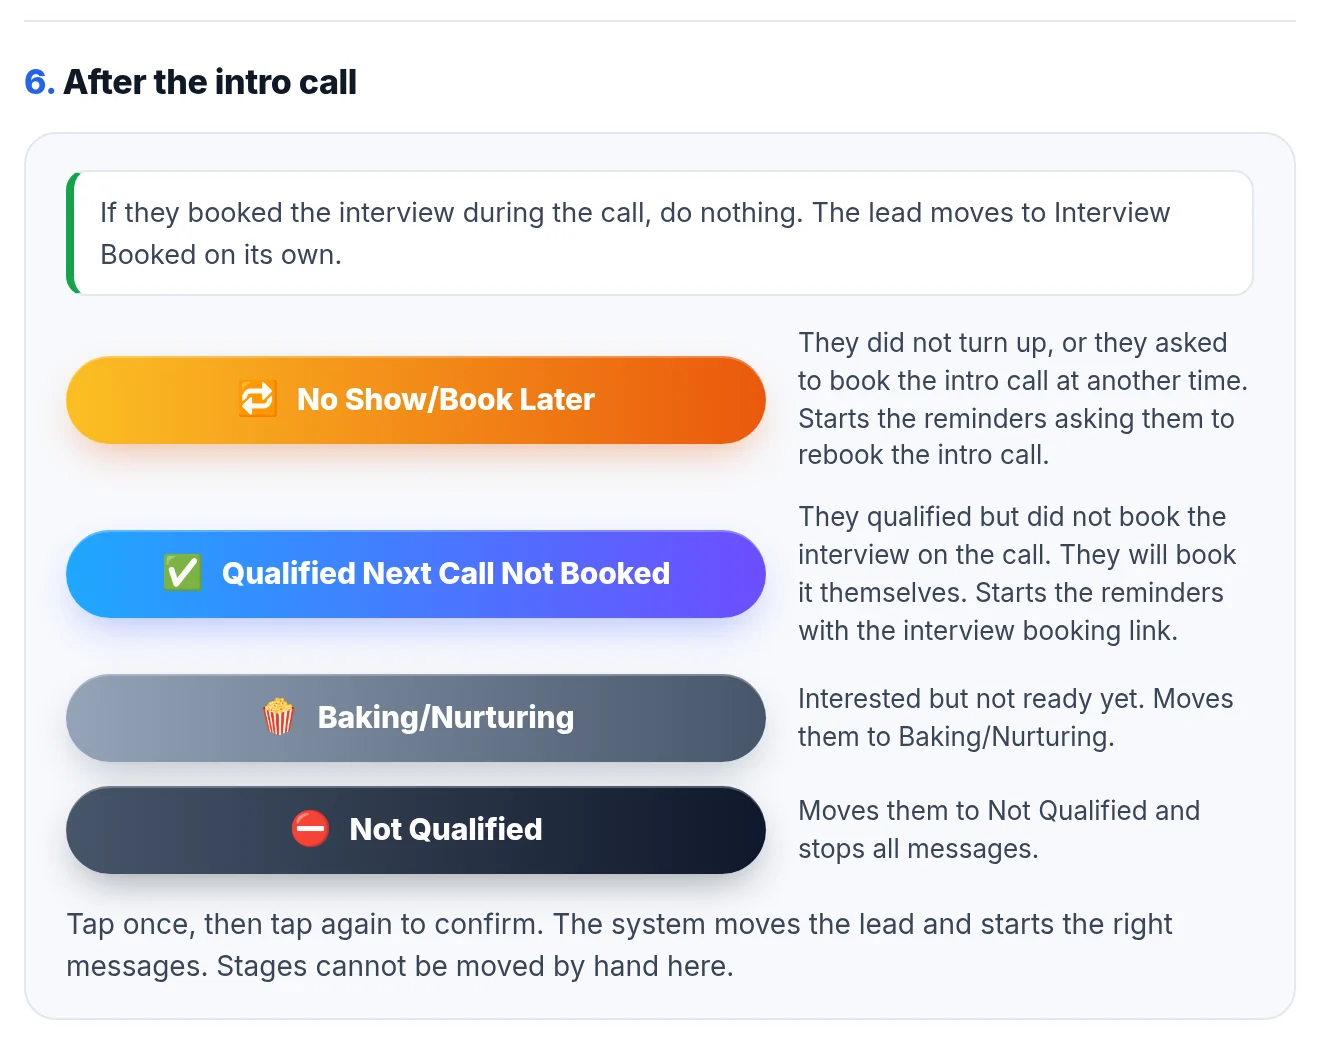
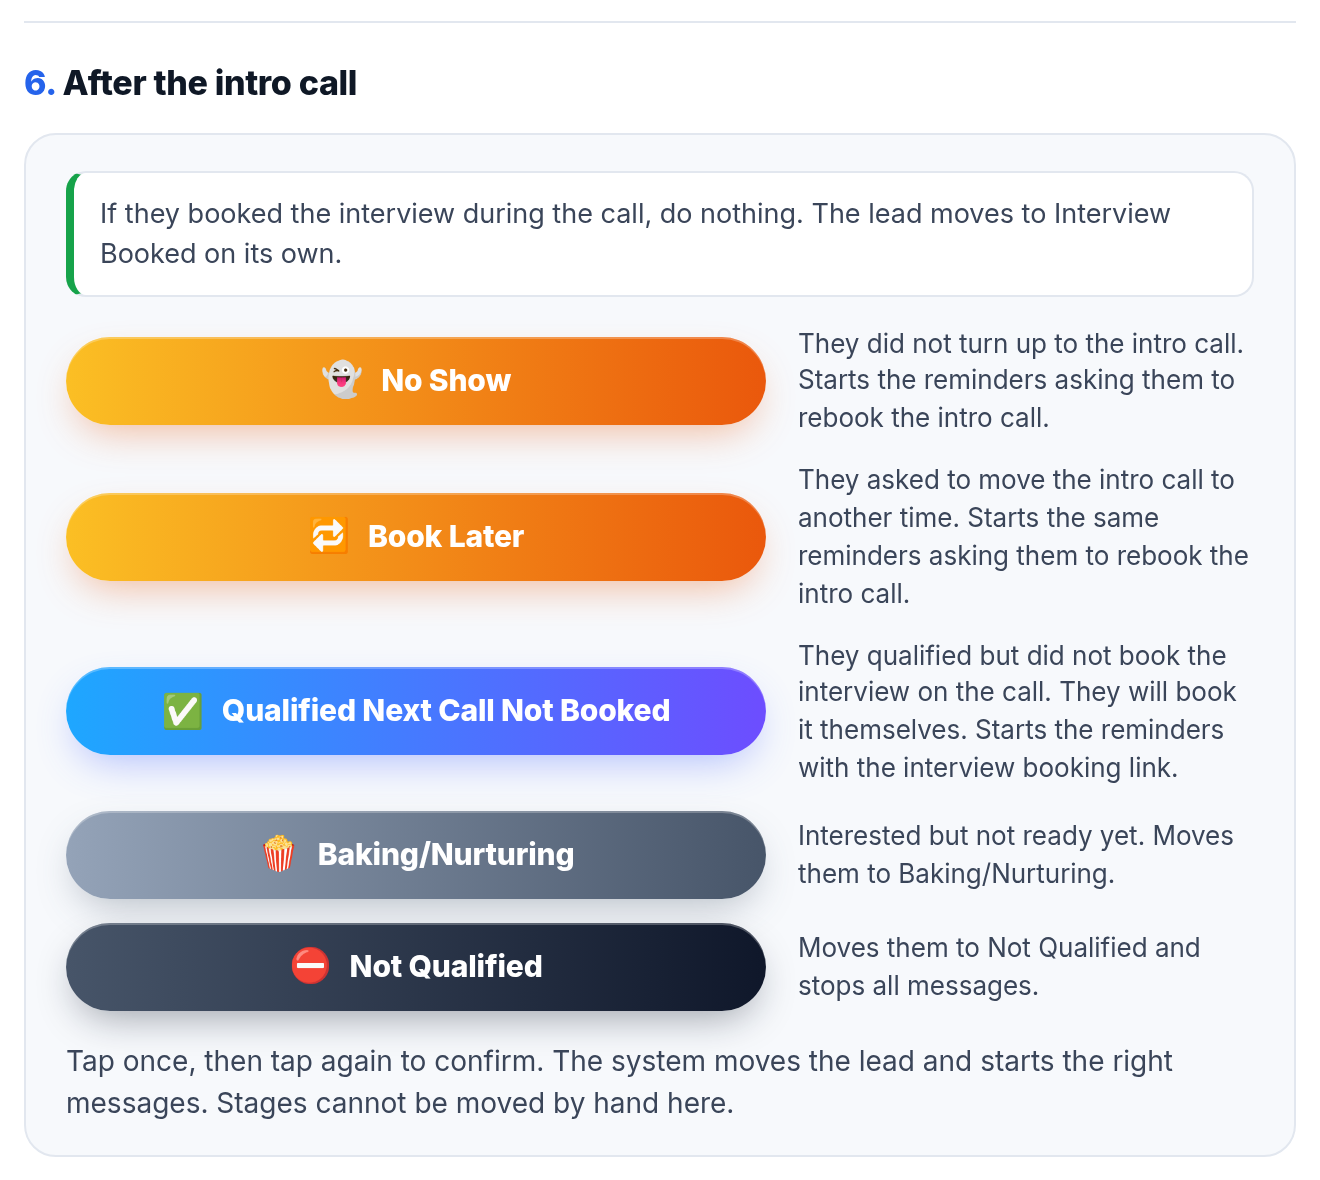
Split No Show and Book Later into two buttons

diff --git a/public/app.js b/public/app.js
@@ -192,17 +192,17 @@ function stageDetail(s){
   }
   if(st==="noshow") return {
     what:"People who missed or cancelled their intro call. The CRM is sending them reminders to book a new one.",
-    how:"They land here when a salesperson taps No Show/Book Later on the intro card, or on their own when they cancel the intro.",
+    how:"They land here when a salesperson taps No Show or Book Later on the intro card, or on their own when they cancel the intro.",
     you:"Reach out to them personally if you have not yet, so they end up booking the intro call.",
   };
   if(st==="bookinginterview") return {
     what:"People who need to book their interview. The CRM is sending them reminders to book it.",
-    how:"They land here when a salesperson taps Qualified Next Call Not Booked on the intro card or No Show/Book Later on the interview card, or on their own when they cancel the interview.",
+    how:"They land here when a salesperson taps Qualified Next Call Not Booked on the intro card or No Show or Book Later on the interview card, or on their own when they cancel the interview.",
     you:"Reach out to them personally if you have not yet, so they end up booking the interview.",
   };
   if(st==="bookingreview") return {
     what:"People who need to book their review call. The CRM is sending them reminders to book it.",
-    how:"They land here when a salesperson taps Qualified Next Call Not Booked on the interview card or No Show/Book Later on the review card, or on their own when they cancel the review.",
+    how:"They land here when a salesperson taps Qualified Next Call Not Booked on the interview card or No Show or Book Later on the review card, or on their own when they cancel the review.",
     you:"Reach out to them personally if you have not yet, so they end up booking the review call.",
   };
   if(st==="baking") return {
@@ -450,11 +450,14 @@ function actionPlan(l, ctx){
   const isInterview=/interview/i.test(st), isReview=/review/i.test(st);
   // Button text matches the stage names in the pipeline.
   const B={
-    noshowIntro:{label:"No Show/Book Later", tag:"noshow-intro", tone:"chase", icon:"🔁", what:"They did not turn up, or they asked to book the intro call at another time. Starts the reminders asking them to rebook the intro call."},
+    noshowIntro:{label:"No Show", tag:"noshow-intro", tone:"chase", icon:"👻", what:"They did not turn up to the intro call. Starts the reminders asking them to rebook the intro call."},
+    booklaterIntro:{label:"Book Later", tag:"booklater-intro", tone:"chase", icon:"🔁", what:"They asked to move the intro call to another time. Starts the same reminders asking them to rebook the intro call."},
     noBookInterview:{label:"Qualified Next Call Not Booked", tag:"pending-interview", tone:"blue", icon:"✅", what:"They qualified but did not book the interview on the call. They will book it themselves. Starts the reminders with the interview booking link."},
-    noshowInterview:{label:"No Show/Book Later", tag:"noshow-interview", tone:"chase", icon:"🔁", what:"They did not turn up, or they asked to book the interview at another time. Starts the reminders asking them to rebook the interview."},
+    noshowInterview:{label:"No Show", tag:"noshow-interview", tone:"chase", icon:"👻", what:"They did not turn up to the interview. Starts the reminders asking them to rebook the interview."},
+    booklaterInterview:{label:"Book Later", tag:"booklater-interview", tone:"chase", icon:"🔁", what:"They asked to move the interview to another time. Starts the same reminders asking them to rebook the interview."},
     noBookReview:{label:"Qualified Next Call Not Booked", tag:"pending-review", tone:"blue", icon:"✅", what:"The interview went well but they did not book the review on the call. They will book it themselves. Starts the reminders with the review booking link."},
-    noshowReview:{label:"No Show/Book Later", tag:"noshow-review", tone:"chase", icon:"🔁", what:"They did not turn up, or they asked to book the review at another time. Starts the reminders asking them to rebook the review."},
+    noshowReview:{label:"No Show", tag:"noshow-review", tone:"chase", icon:"👻", what:"They did not turn up to the review call. Starts the reminders asking them to rebook the review."},
+    booklaterReview:{label:"Book Later", tag:"booklater-review", tone:"chase", icon:"🔁", what:"They asked to move the review call to another time. Starts the same reminders asking them to rebook the review."},
     baking:{label:"Baking/Nurturing", tag:"baking", tone:"gray", icon:"🍿", what:"Interested but not ready yet. Moves them to Baking/Nurturing."},
     nq:{label:"Not Qualified", tag:"not-qualified", tone:"dark", icon:"⛔", what:"Moves them to Not Qualified and stops all messages."},
     cancel:{label:"Cancel the call", tag:"not-qualified", tone:"dark", icon:"🚫", what:"The call is off. Moves them to Not Qualified and stops all messages."},
@@ -468,9 +471,9 @@ function actionPlan(l, ctx){
     if(s!=="clientwon") list.push(B.won);
     return {title:"Move this lead", auto:"Only for closing out a lead. The day to day call buttons are on the cards in Daily Outreach.", after:list};
   }
-  if(s==="booked" && isReview) return {title:"After the review call", auto:"Tap the one that matches what happened.", after:[B.noshowReview,B.baking,B.nq]};
-  if(s==="booked" && isInterview) return {title:"After the interview call", auto:"If they booked the review during the interview, do nothing. The lead moves to Review Booked on its own.", after:[B.noshowInterview,B.noBookReview,B.baking,B.nq]};
-  if(s==="booked") return {title:"After the intro call", auto:"If they booked the interview during the call, do nothing. The lead moves to Interview Booked on its own.", after:[B.noshowIntro,B.noBookInterview,B.baking,B.nq]};
+  if(s==="booked" && isReview) return {title:"After the review call", auto:"Tap the one that matches what happened.", after:[B.noshowReview,B.booklaterReview,B.baking,B.nq]};
+  if(s==="booked" && isInterview) return {title:"After the interview call", auto:"If they booked the review during the interview, do nothing. The lead moves to Review Booked on its own.", after:[B.noshowInterview,B.booklaterInterview,B.noBookReview,B.baking,B.nq]};
+  if(s==="booked") return {title:"After the intro call", auto:"If they booked the interview during the call, do nothing. The lead moves to Interview Booked on its own.", after:[B.noshowIntro,B.booklaterIntro,B.noBookInterview,B.baking,B.nq]};
   return null; // other stages: the closing buttons live on the Pipeline tab
 }
 

diff --git a/public/resources.html b/public/resources.html
@@ -176,7 +176,7 @@
         </div>
         <h3>The intro call</h3>
         <dl class="rows">
-          <dt>Entry</dt><dd class="entry"><span class="e">A salesperson taps <b>No Show/Book Later</b> on the intro card, or the lead cancels the intro.</span></dd>
+          <dt>Entry</dt><dd class="entry"><span class="e">A salesperson taps <b>No Show</b> or <b>Book Later</b> on the intro card, or the lead cancels the intro.</span></dd>
           <dt>They get</dt><dd>Reminder emails and texts asking them to book a new intro.</dd>
           <dt>Cadence</dt><dd><div class="flow"><span class="step first">Day 0</span><span class="arr">&rarr;</span><span class="step">Day 1</span><span class="arr">&rarr;</span><span class="step">Day 3</span><span class="arr">&rarr;</span><span class="step">Day 5</span><span class="arr">&rarr;</span><span class="step stop">Stops</span></div></dd>
           <dt>Link used</dt><dd>The intro booking page.</dd>
@@ -192,7 +192,7 @@
         </div>
         <h3>The interview</h3>
         <dl class="rows">
-          <dt>Entry</dt><dd class="entry"><span class="e">A salesperson taps <b>Qualified Next Call Not Booked</b> on the intro card or <b>No Show/Book Later</b> on the interview card, or the lead cancels the interview.</span></dd>
+          <dt>Entry</dt><dd class="entry"><span class="e">A salesperson taps <b>Qualified Next Call Not Booked</b> on the intro card or <b>No Show</b> or <b>Book Later</b> on the interview card, or the lead cancels the interview.</span></dd>
           <dt>They get</dt><dd>Reminder emails and texts asking them to book the interview.</dd>
           <dt>Cadence</dt><dd><div class="flow"><span class="step first">Day 0</span><span class="arr">&rarr;</span><span class="step">Day 1</span><span class="arr">&rarr;</span><span class="step">Day 3</span><span class="arr">&rarr;</span><span class="step">Day 5</span><span class="arr">&rarr;</span><span class="step stop">Stops</span></div></dd>
           <dt>Link used</dt><dd>The interview booking calendar.</dd>
@@ -208,7 +208,7 @@
         </div>
         <h3>The review call</h3>
         <dl class="rows">
-          <dt>Entry</dt><dd class="entry"><span class="e">A salesperson taps <b>Qualified Next Call Not Booked</b> on the interview card or <b>No Show/Book Later</b> on the review card, or the lead cancels the review.</span></dd>
+          <dt>Entry</dt><dd class="entry"><span class="e">A salesperson taps <b>Qualified Next Call Not Booked</b> on the interview card or <b>No Show</b> or <b>Book Later</b> on the review card, or the lead cancels the review.</span></dd>
           <dt>They get</dt><dd>Reminder emails and texts asking them to book the review call.</dd>
           <dt>Cadence</dt><dd><div class="flow"><span class="step first">Day 0</span><span class="arr">&rarr;</span><span class="step">Day 1</span><span class="arr">&rarr;</span><span class="step">Day 3</span><span class="arr">&rarr;</span><span class="step">Day 5</span><span class="arr">&rarr;</span><span class="step stop">Stops</span></div></dd>
           <dt>Link used</dt><dd>The review call booking page.</dd>
